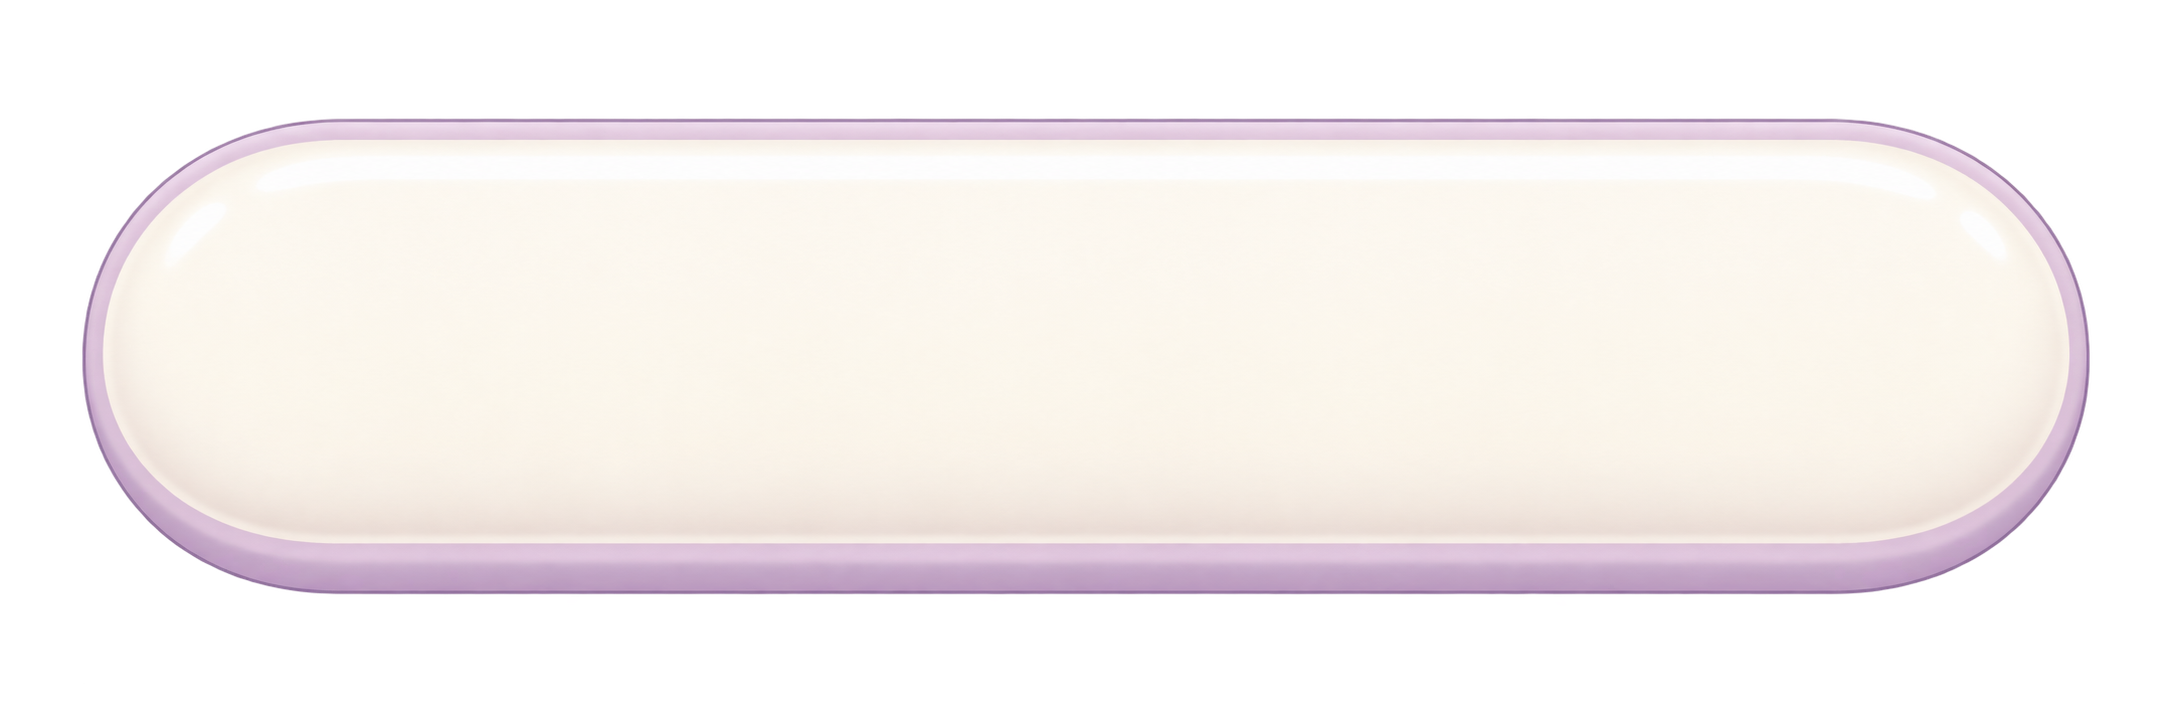
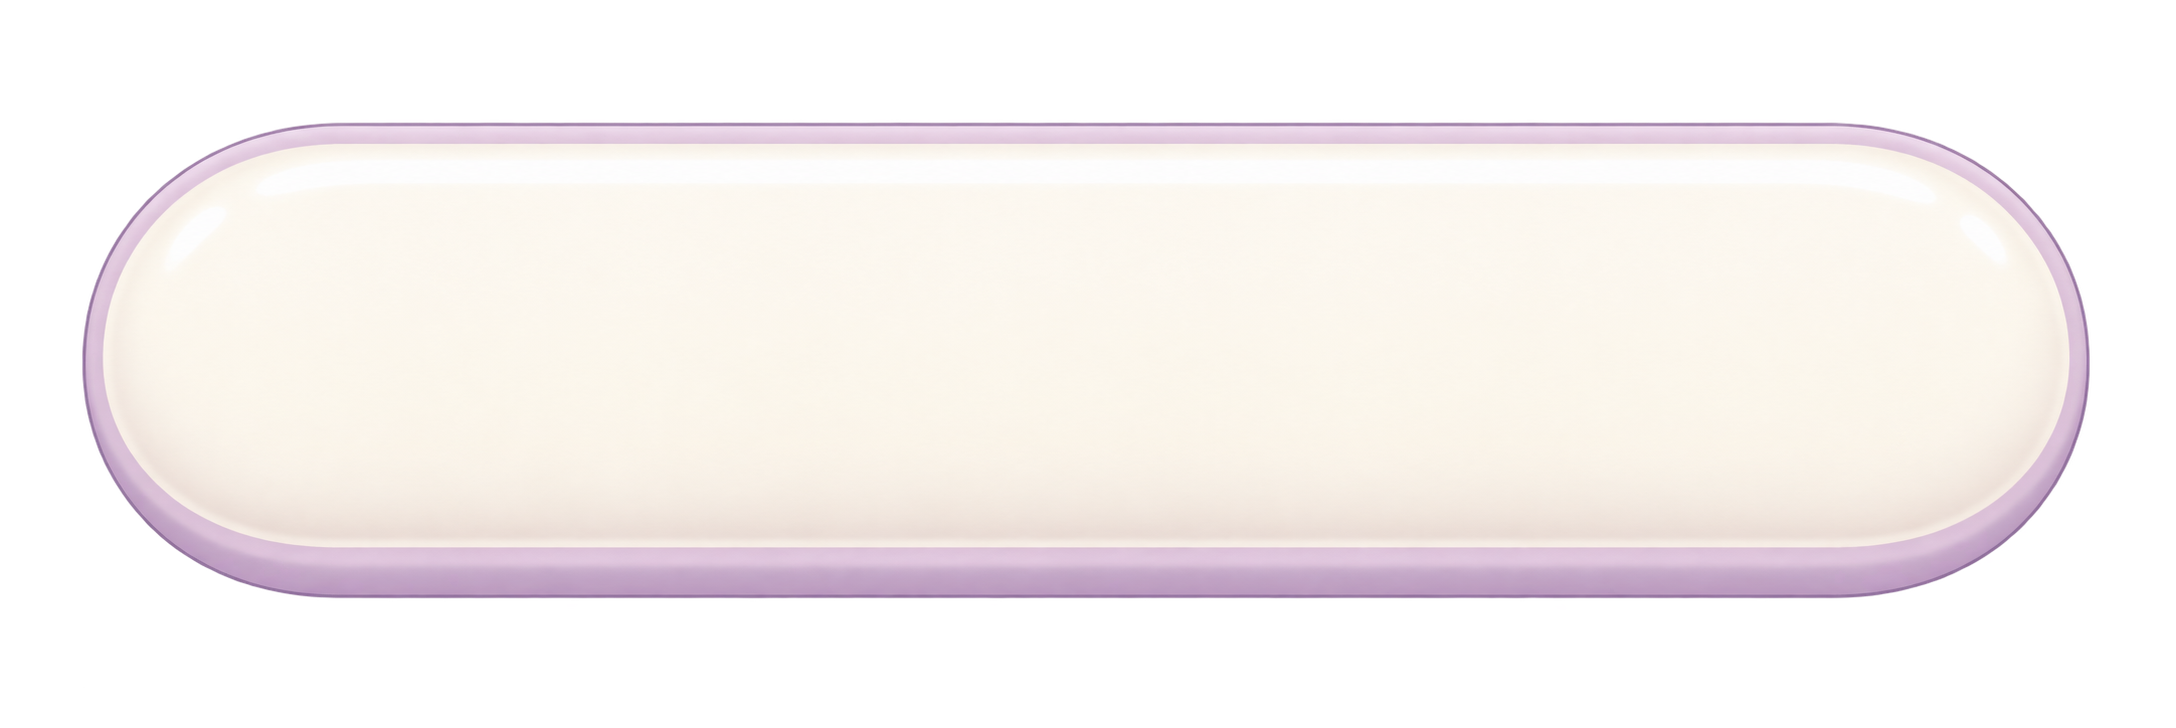
perf(web): compress the 4 large Garden textures
pink-expression-sheet, soulmates-icon, tutorial-v2 and
marshmallow-button-v2 were imported uncompressed (about 6 MB each, a
quarter of the web data). They're now CompressedHQ. Web compression
(DXT) needs sizes in multiples of 4, so three PNGs are padded with
transparent pixels on the right/top (sprite rects stay put; the icon is
padded evenly to stay centred), and the button gets a 4096 cap so it
isn't downscaled to an odd size. GardenDesignSetup applies this too
(LargeArt, "Compress large art" menu), so a re-install keeps it.

Download on z-games (Brotli): ~46 MB -> ~29 MB. Before/after captures at
2x zoom look the same. Docs updated with the new sizes.

diff --git a/Assets/_Project/Scripts/Editor/GardenDesignSetup.cs b/Assets/_Project/Scripts/Editor/GardenDesignSetup.cs
@@ -28,7 +28,7 @@ public static class GardenDesignSetup
         importer.mipmapEnabled = false;
         importer.alphaIsTransparency = true;
         importer.maxTextureSize = 2048;
-        importer.textureCompression = TextureImporterCompression.Uncompressed;
+        importer.textureCompression = CompressionFor("pink-expression-sheet.png");
         importer.spritesheet = new[]
         {
             new SpriteMetaData
@@ -225,6 +225,36 @@ public static class GardenDesignSetup
         Debug.Log("[GardenDesignSetup.Install] Garden design installed.");
     }
 
+    // The big art pieces are about 6 MB each uncompressed (a quarter of the web download), so
+    // they're compressed; the small icons stay uncompressed for crisp edges. Web compression (DXT)
+    // needs sizes in multiples of 4, so these PNGs are padded to that with transparent pixels
+    // (right/top, which keeps sprite rects in place), else Unity silently keeps them uncompressed.
+    static readonly string[] LargeArt =
+    {
+        "pink-expression-sheet.png",
+        "soulmates-icon.png",
+        "tutorial-v2.png",
+        "marshmallow-button-v2.png",
+    };
+
+    static TextureImporterCompression CompressionFor(string name) =>
+        LargeArt.Contains(name)
+            ? TextureImporterCompression.CompressedHQ
+            : TextureImporterCompression.Uncompressed;
+
+    // Applies CompressionFor to the large art without re-running Install over the scenes.
+    [MenuItem("Tools/Soulmates/Garden/Compress large art")]
+    public static void CompressLargeArt()
+    {
+        foreach (string name in LargeArt)
+        {
+            var importer = (TextureImporter)AssetImporter.GetAtPath(Art + "/" + name);
+            importer.maxTextureSize = 4096;
+            importer.textureCompression = CompressionFor(name);
+            importer.SaveAndReimport();
+        }
+    }
+
     static Sprite ImportPolishedSprite(string name, bool button)
     {
         string path = Art + "/" + name;
@@ -233,8 +263,8 @@ public static class GardenDesignSetup
         importer.textureType = TextureImporterType.Sprite;
         importer.mipmapEnabled = false;
         importer.alphaIsTransparency = true;
-        importer.maxTextureSize = 2048;
-        importer.textureCompression = TextureImporterCompression.Uncompressed;
+        importer.maxTextureSize = LargeArt.Contains(name) ? 4096 : 2048; // no odd downscale
+        importer.textureCompression = CompressionFor(name);
         importer.filterMode = FilterMode.Bilinear;
         if (button)
         {

diff --git a/ai_docs/CLAUDE.md b/ai_docs/CLAUDE.md
@@ -23,7 +23,7 @@ Genre: cooperative puzzle-platformer (think *Lovers in a Dangerous Spacetime* me
 | Thing | Version | Notes |
 |---|---|---|
 | Unity Editor | **2022.3.62f3 LTS** | Recently upgraded from 2021.3.37f1. Project also kept on this version to match its sister project The-Lost-Scrolls. |
-| Render pipeline | **URP 14.0.12** (2D Renderer) | HDRP package is also installed but unused — slated for cleanup. |
+| Render pipeline | **URP 14.0.12** (2D Renderer) | The unused HDRP package was removed on 2026-11-11 (it added 15 MB to the web build). |
 | Input | **Unity Input System 1.14.0** | New input system, not legacy `Input.GetKey`. Action map is `Assets/_Project/Scripts/PlayersMovement.inputactions`. |
 | 2D toolchain | **2D Animation 9.2.0**, **PSD Importer 8.1.0**, **Pixel Perfect 5.1.0**, **SpriteShape 9.1.0** | All 2022-LTS versions. |
 | Recorder | **4.0.3** | For capturing gameplay clips. |
@@ -49,7 +49,6 @@ Assets/
 ├── Fonts/                    # TextMesh Pro fonts
 ├── MainMixer.mixer           # Audio mixer (master/SFX/music channels)
 ├── Renderer/                 # URP renderer asset
-├── HDRPDefaultResources/     # ⚠ Unused — URP project, HDRP residue
 ├── Kawaii Slimes/            # ⚠ Third-party sprite pack (in Assets root, not Resources/)
 ├── TextMesh Pro/             # ⚠ TMP runtime resources (Unity-bundled)
 └── UniversalRenderPipelineGlobalSettings.asset
@@ -128,7 +127,8 @@ Both players' controls are defined in `PlayersMovement.inputactions`. Verify the
 | Item | Status | Notes |
 |---|---|---|
 | **`SaveSystem.cs` used `BinaryFormatter`** | Done 2026-10-17 | Saves are JSON (`level.json`). An old `level.pz` is read once, converted, and renamed to `level.pz.migrated`; `SaveSystemTests` covers it. `LoadLegacy` is the only `BinaryFormatter` left; delete it once old saves no longer matter. |
-| **HDRP package & `HDRPDefaultResources/` folder** | Unused, kept | Project uses URP 2D. Consider removing the HDRP package from `Packages/manifest.json` and deleting the folder. |
+| **HDRP package & `HDRPDefaultResources/` folder** | Done 2026-11-11 | Removed (package, folder, its GraphicsSettings entry). Web build 82 → 54 MB with the texture fix below. |
+| **Large Garden art uncompressed** | Done 2026-11-11 | `GardenDesignSetup.LargeArt` (4 PNGs) are compressed; web compression needs sizes in multiples of 4, so those PNGs are padded with transparent pixels (right/top). New big art: same rule, or Unity silently keeps it uncompressed. |
 | **Third-party packs in `Assets/` root** | Cosmetic | `Kawaii Slimes/` and `TextMesh Pro/` should ideally live under `Assets/ThirdParty/` but moving them risks breaking internal references in those packs. Move via Editor only. |
 | **Flat `Scripts/` directory** | Convention gap | 22 files in one folder; group by concern (`Player/`, `UI/`, `Audio/`, `System/`) when it grows. |
 | **No namespaces, no asmdef** | Convention gap | All scripts compile to `Assembly-CSharp`. Same as Lost-Scrolls — recompile times grow with codebase. |

diff --git a/README.md b/README.md
@@ -83,7 +83,6 @@ Assets/
 ├── Renderer/                 # URP renderer asset — don't move
 ├── Kawaii Slimes/            # ⚠ Third-party sprite pack (in Assets root)
 ├── TextMesh Pro/             # ⚠ TMP runtime resources (in Assets root)
-└── HDRPDefaultResources/     # ⚠ Unused — slated for cleanup
 
 ai_docs/                      # Project documentation for humans + AI assistants
 ProjectSettings/              # Unity-managed — don't edit by hand
@@ -117,7 +116,6 @@ Most "code" changes happen in the **Unity Editor**, not in `.cs` files. The foll
 ## Known issues
 
 - **`SaveSystem.cs` uses `BinaryFormatter`**, which is deprecated in modern .NET and considered insecure for untrusted data. For a single-player local save it's tolerable, but a future cleanup task is to replace it with JSON serialization (`JsonUtility.ToJson`).
-- **HDRP package is installed but unused** — `Assets/HDRPDefaultResources/` and the HDRP entry in `Packages/manifest.json` should be removed once verified.
 - **Auto-generated `PlayersMovement.cs`** is regenerated by Unity from `PlayersMovement.inputactions`. Don't edit it by hand; CSharpier is configured to skip it.
 - **No tests, no CI** — solo project, by choice.
 

diff --git a/ai_docs/Z_GAMES.md b/ai_docs/Z_GAMES.md
@@ -49,5 +49,7 @@ Then the checks in hosting-games §5 and commit the new build in z-games ("fix: 
 
 ## Download size
 
-78 MB today (compression Disabled). The fixes (Brotli + headers, 4 uncompressed textures, remove the unused
-HDRP package) are listed in z-games `ai_docs/specs/deployment.md`; target ≤ 60 MB (hosting-games §2).
+54 MB on disk since 2026-11-11 (was 82 MB): the HDRP package is gone and the 4 large Garden textures are
+compressed. Vercel already serves `.wasm`/`.data` with Brotli on the fly, so a player downloads about **29 MB**
+(was ~46 MB). A Unity Brotli build would save only a few MB more, so compression stays Disabled. Details in
+z-games `ai_docs/specs/deployment.md`.
